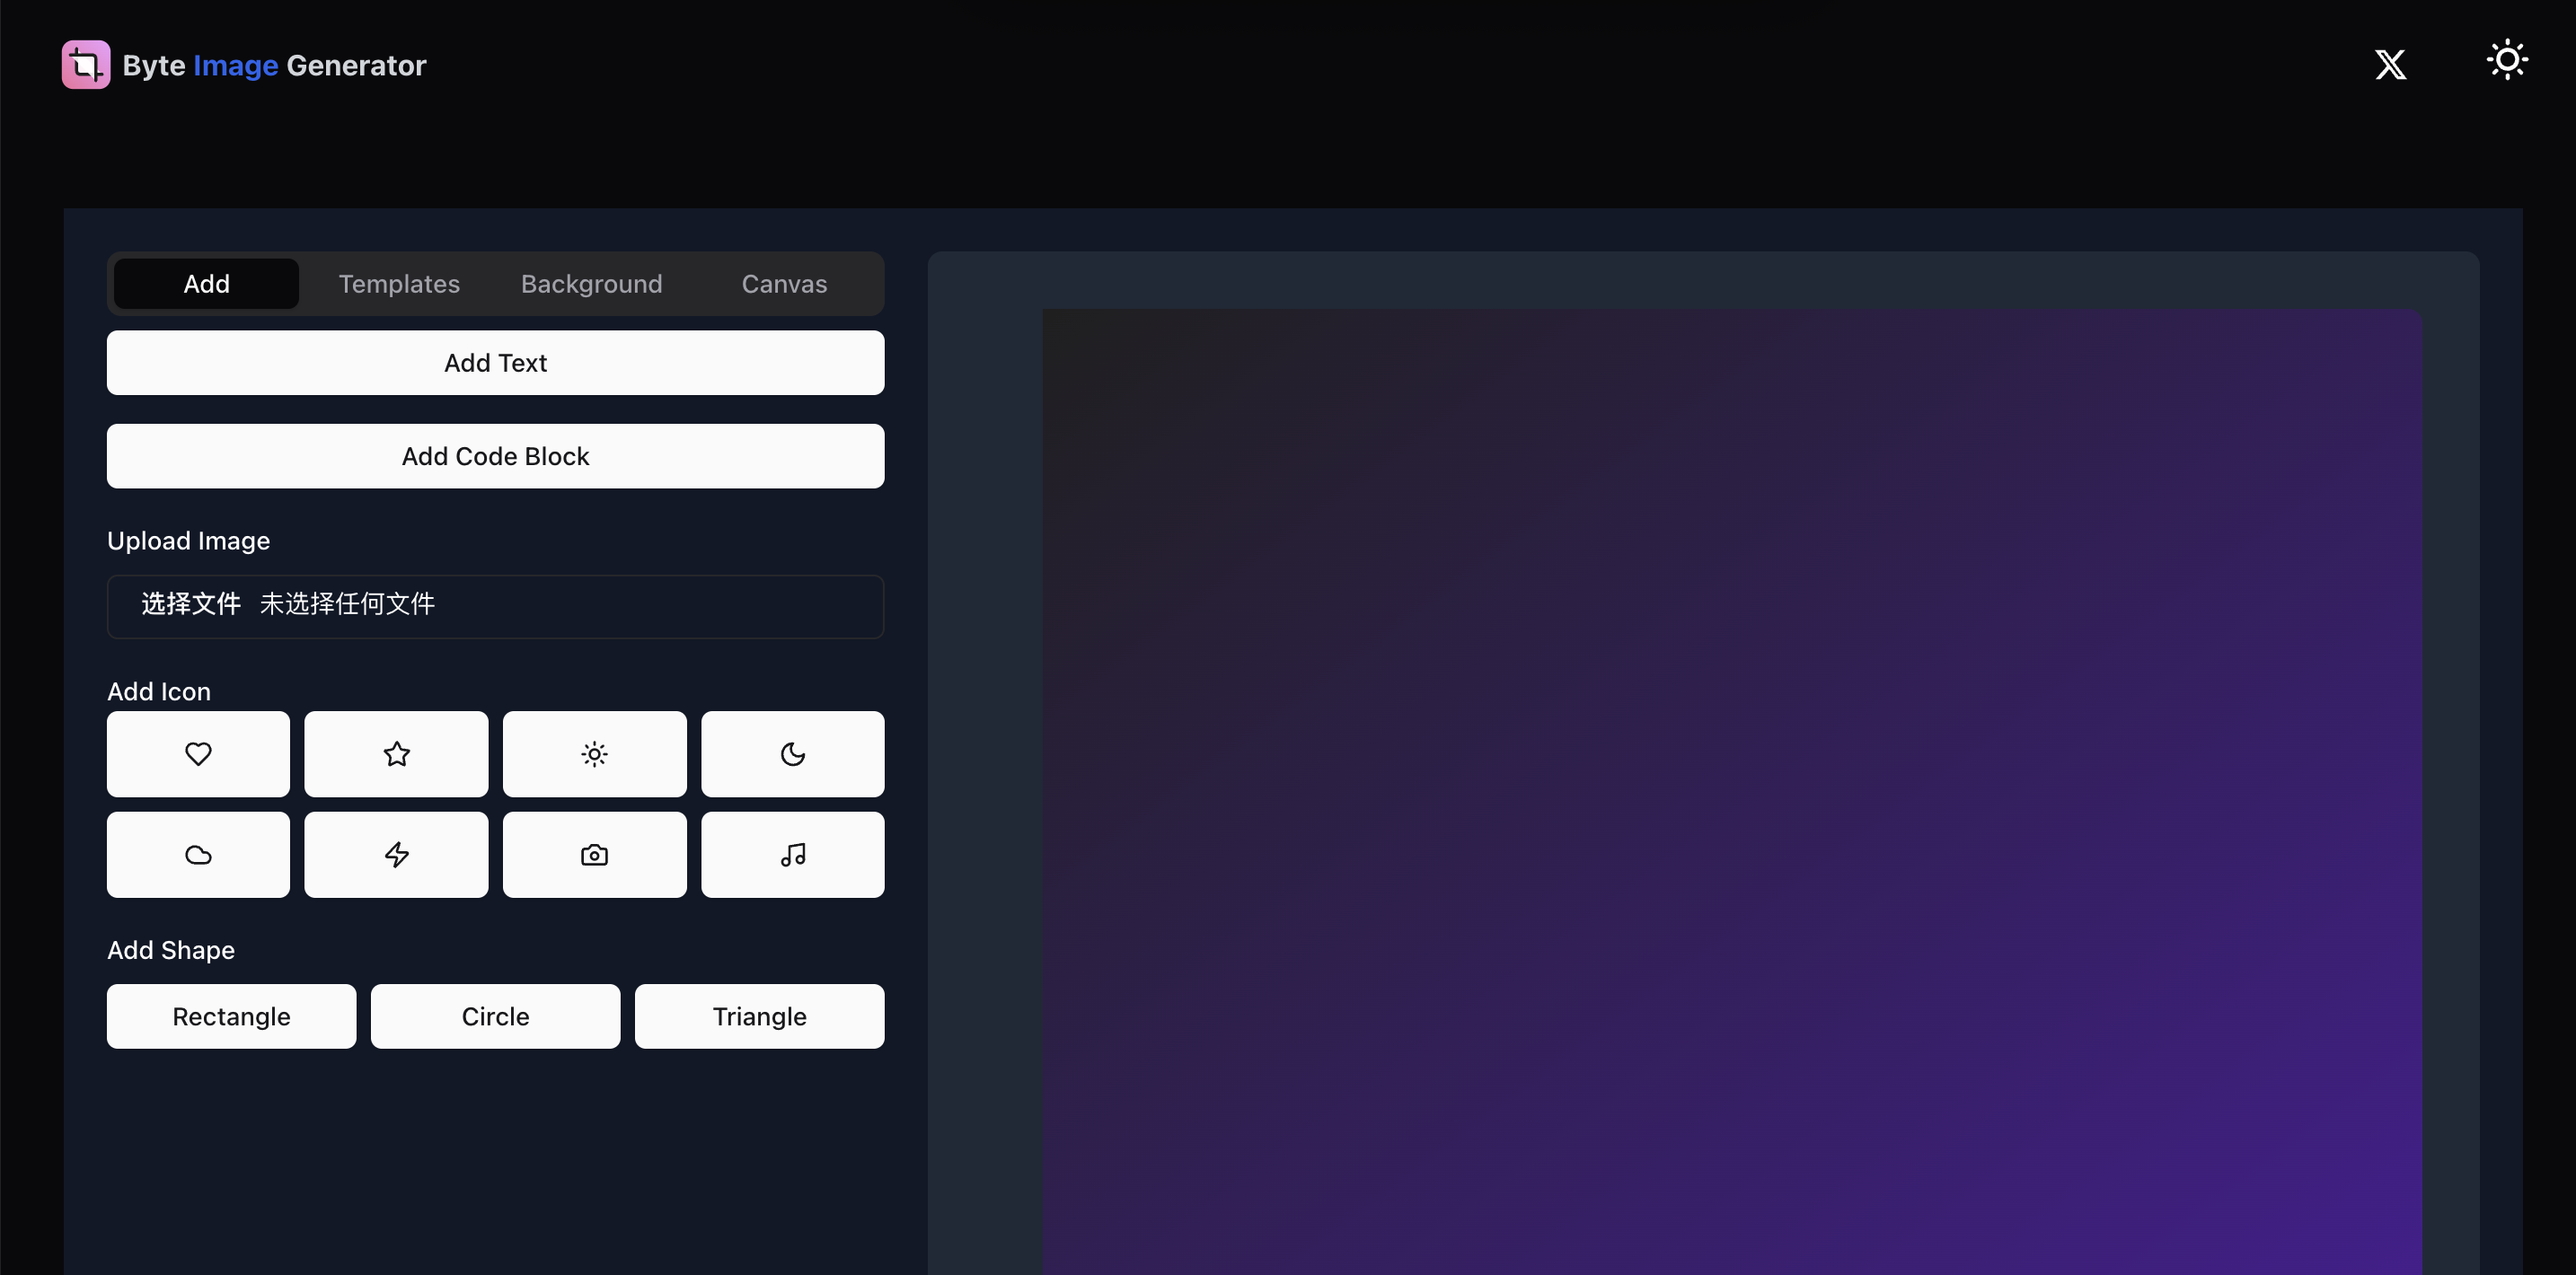
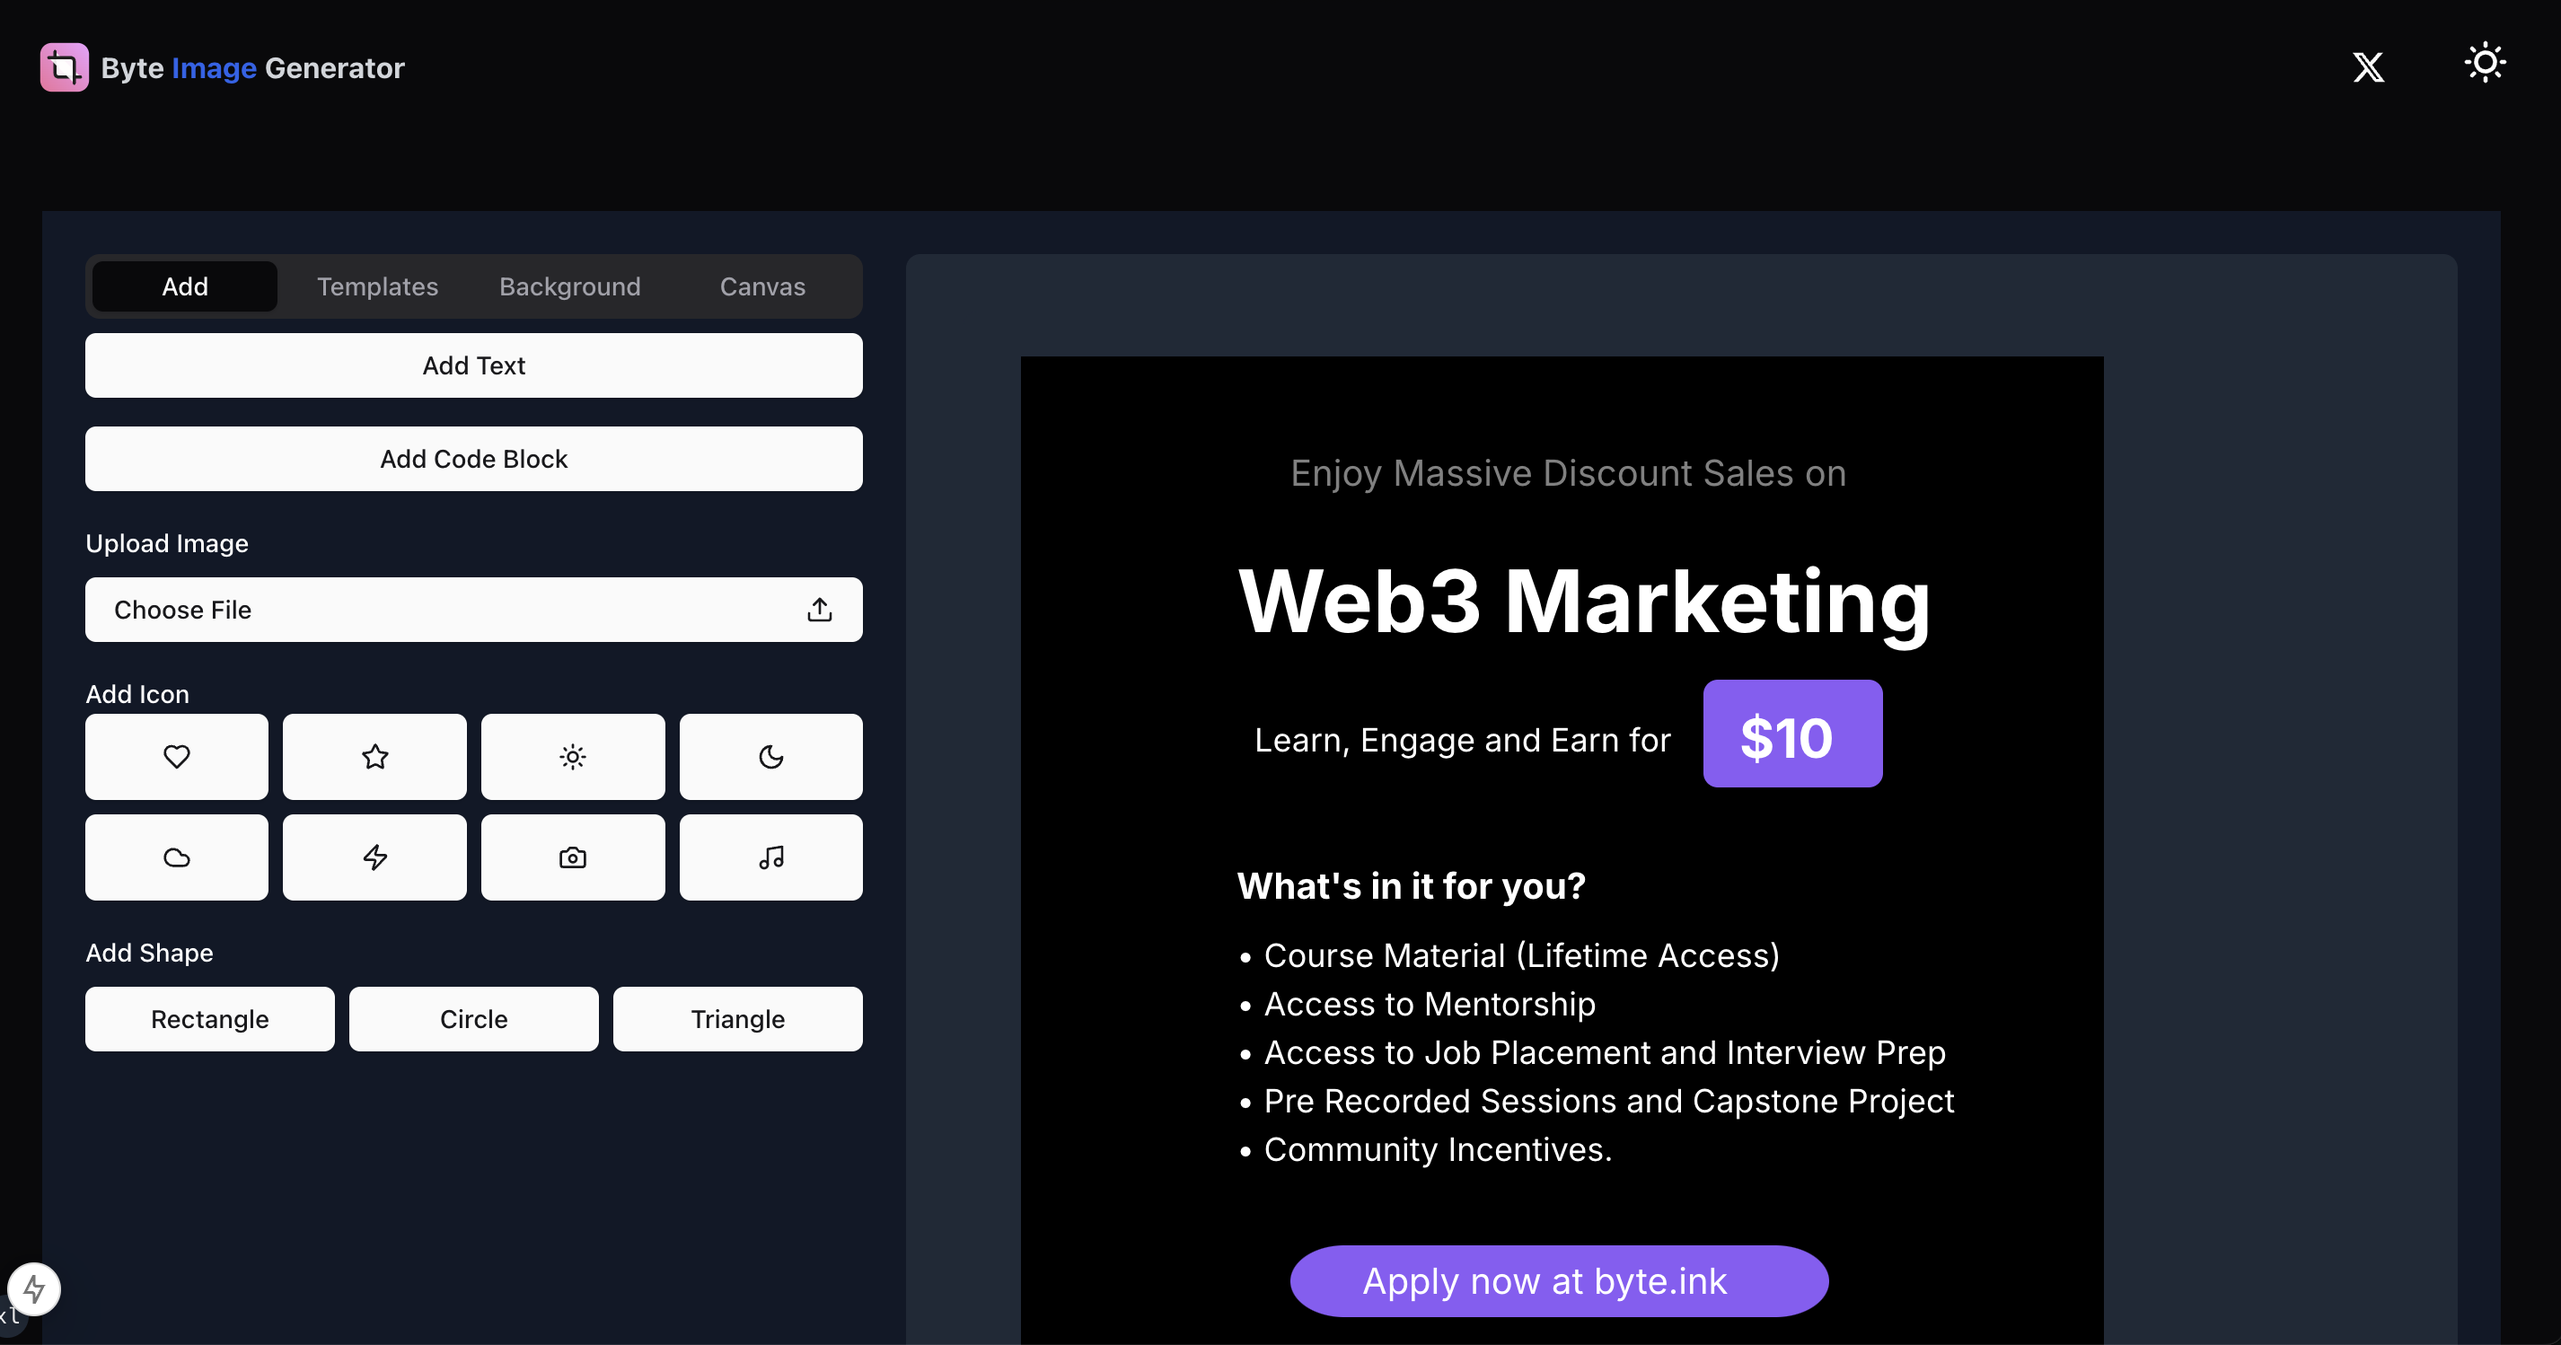
update

diff --git a/config/templates.ts b/config/templates.ts
@@ -4,7 +4,7 @@ export const templates: Template[] = [
   {
     id: 'template-1',
     name: 'template-1',
-    preview: '/placeholder.svg?height=300&width=400',
+    preview: '/template/template-1.svg?height=300&width=400',
     elements: [
       {
         id: 'title-1',
@@ -58,7 +58,7 @@ export const templates: Template[] = [
   {
     id: 'template-2',
     name: 'template-2',
-    preview: '/placeholder.svg?height=300&width=400',
+    preview: '/template/template-2.svg?height=300&width=400',
     elements: [
       {
         id: 'bulb-icon',
@@ -138,7 +138,7 @@ export const templates: Template[] = [
   {
     id: 'template-3',
     name: 'template-3',
-    preview: '/placeholder.svg?height=300&width=400',
+    preview: '/template/template-3.svg?height=300&width=400',
     elements: [
       {
         id: 'subtitle',
@@ -234,8 +234,8 @@ export const templates: Template[] = [
       {
         id: 'cta-text',
         type: 'text',
-        content: 'Apply now at helicode.xyz',
-        x: 170,
+        content: 'Apply now at byte.ink',
+        x: 190,
         y: 500,
         fontSize: 20,
         color: '#ffffff',
@@ -254,7 +254,7 @@ export const templates: Template[] = [
   {
     id: 'template-4',
     name: 'template-4',
-    preview: '/placeholder.svg?height=300&width=400',
+    preview: '/template/template-4.svg?height=300&width=400',
     elements: [
       {
         id: 'image',
